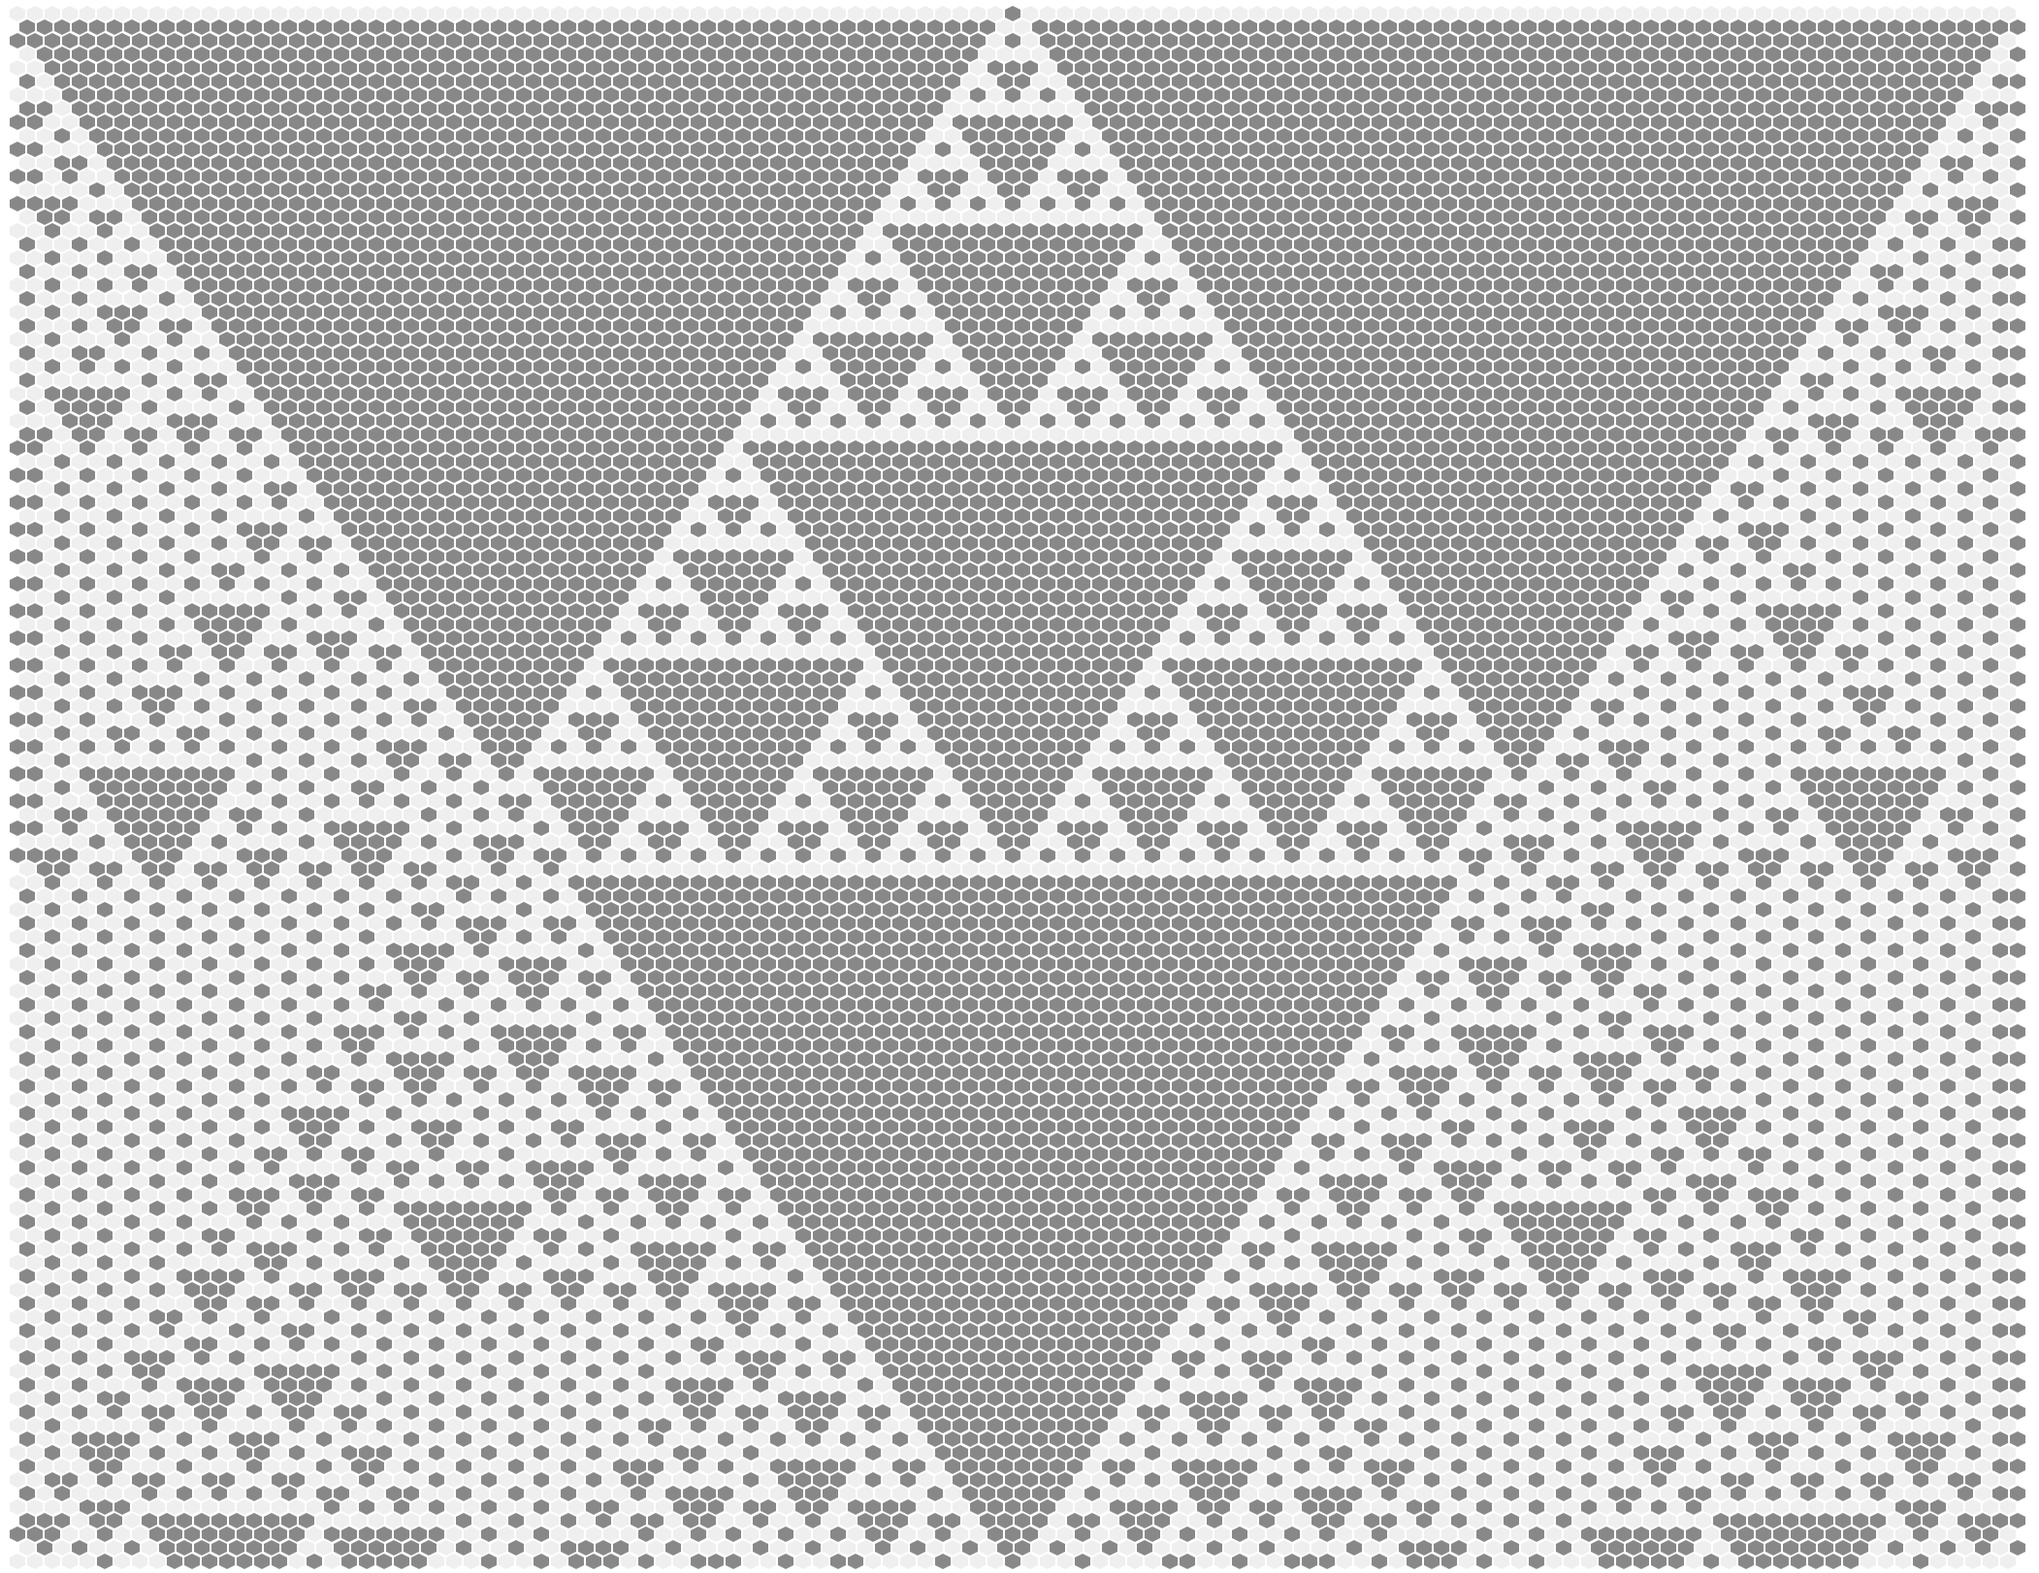
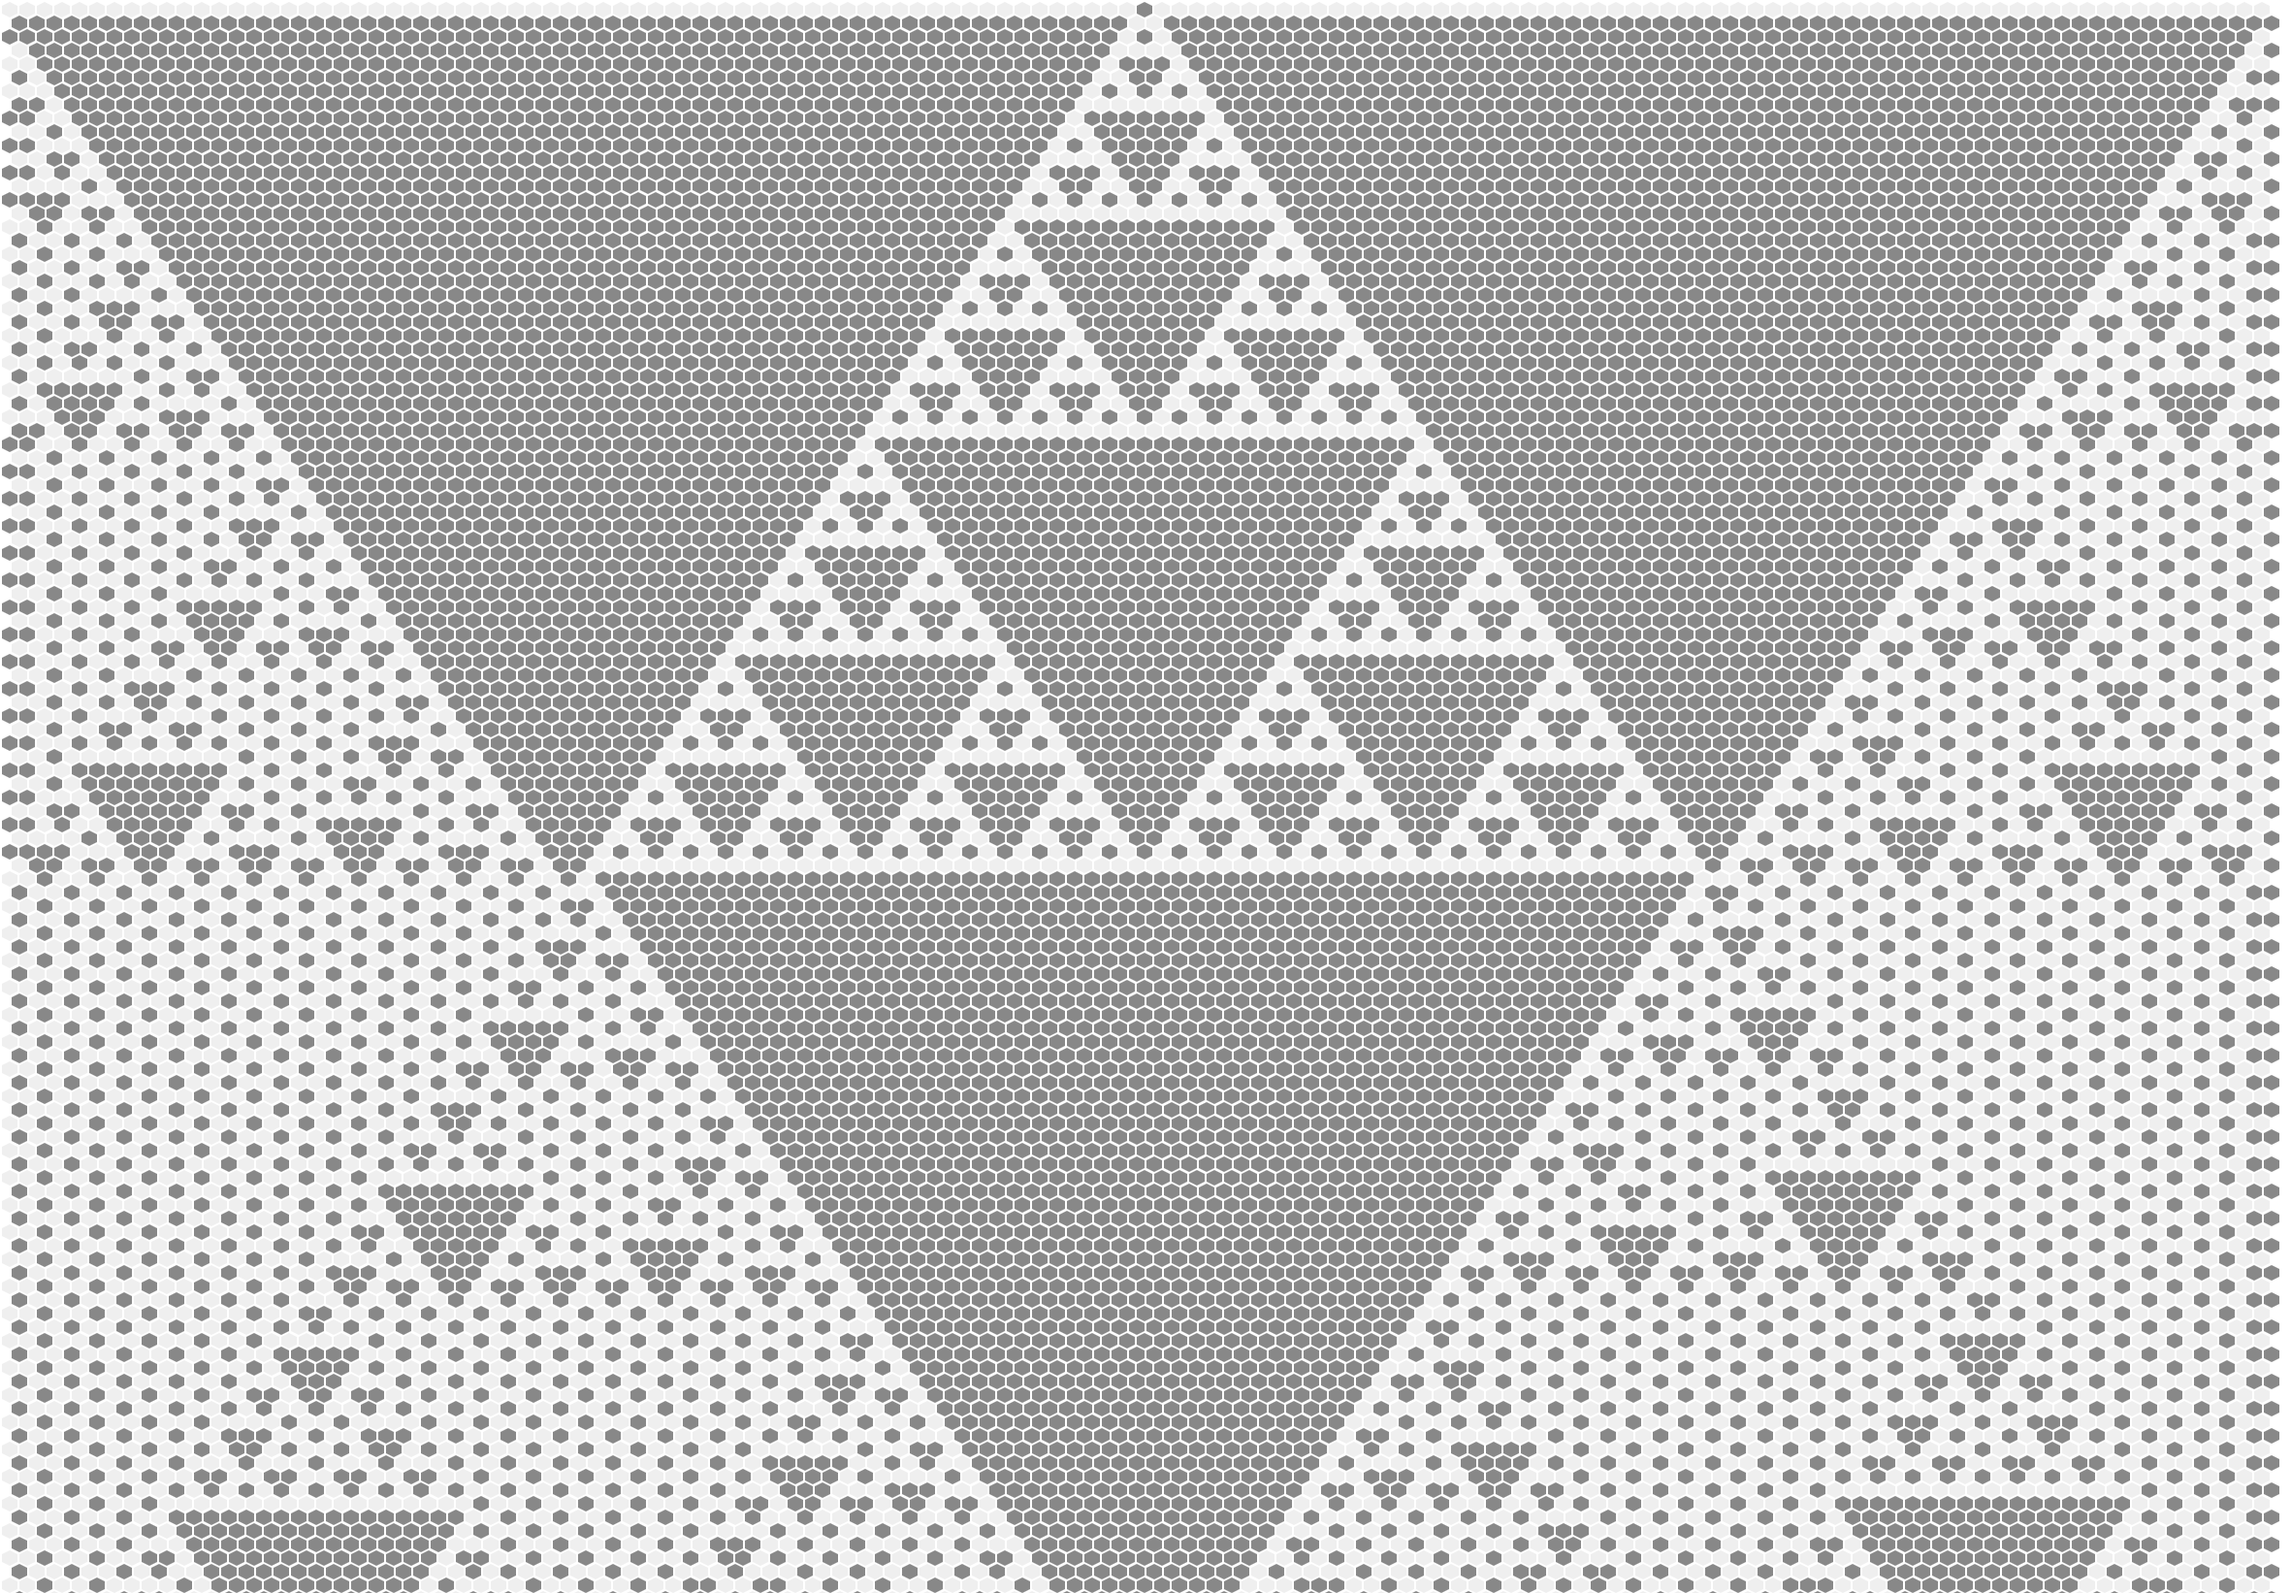
expanding the playgrund

diff --git a/hexagonal.html b/hexagonal.html
@@ -9,7 +9,7 @@
     <div id="world">
         <form action="#" onsubmit="run();return false">
             <label for="rule">Rule:</label>
-            <input type="text" value="30" id="rule" onchange="setRule(this.value);" />
+            <input type="text" value="9" id="rule" onchange="setRule(this.value);" />
             <input type="checkbox" id="unit" onchange="setUnit();" checked />
             <label for="unit">Emerges from a single cell</label>
             <input type="submit" value="Generate" />

diff --git a/src/hexagonal.js b/src/hexagonal.js
@@ -1,7 +1,7 @@
-const n = 115;
-const m = 115;
+const n = 130;
+const m = 130;
 
-let rule = 1;
+let rule = 9;
 let unit = true;
 let currGen = [n];
 
@@ -9,7 +9,7 @@ let currGen = [n];
 function getRule() {
     const queryString = window.location.search;
     const urlParams = new URLSearchParams(queryString);
-    rule = urlParams.get('rule') || 1;
+    rule = urlParams.get('rule') || 9;
     unit = (parseInt(urlParams.get('unit')) != 0);
 
     let ruleElem = document.getElementById("rule");

diff --git a/src/hexagonal.css b/src/hexagonal.css
@@ -42,5 +42,5 @@
 #world {
     text-align: center;
     margin: 10px auto;
-    width: 1050px;
+    width: 1200px;
 }
